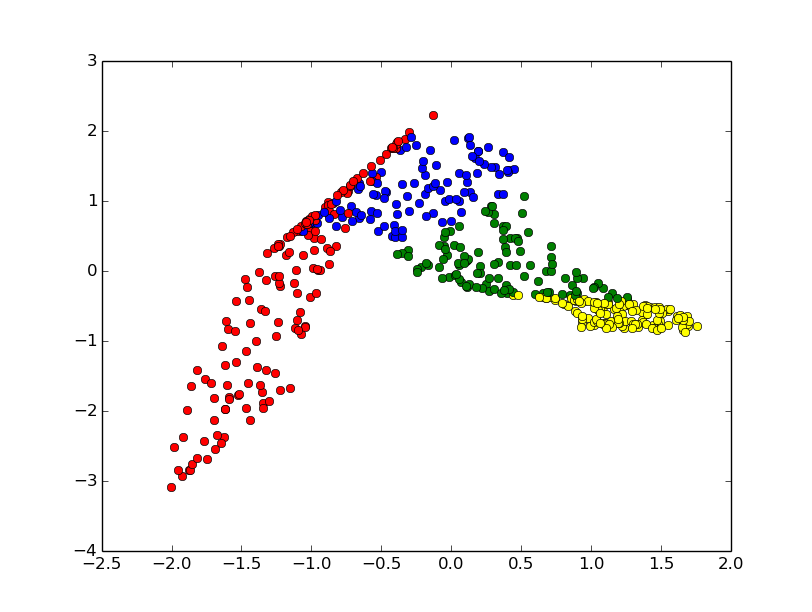
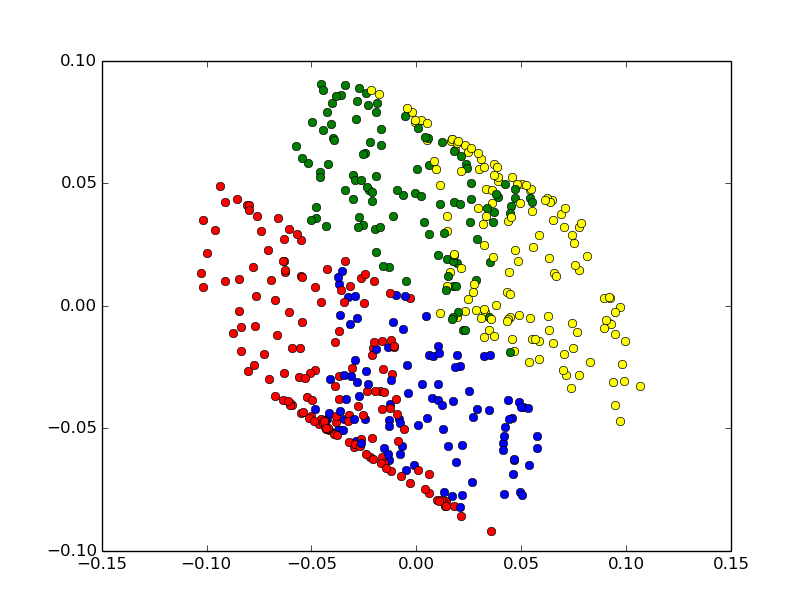
Mostly working LLE, unresolved issue of scale

diff --git a/homework2/3Ddata/threedata.py b/homework2/3Ddata/threedata.py
@@ -242,7 +242,7 @@ def LLE():
         Z = Z - Xi
         C = np.cov(Z.T)
         #Regularize covariance matrix to get full rank
-        eps = 1e-3*np.trace(C)
+        eps = 1e-2*np.trace(C) #/ (nearest_neighbors - 1)
         #C = C+eps*np.identity(number_points - 1)
         C = C + eps*np.identity(nearest_neighbors - 1)
         #C_inverse = np.linalg.inv(C) #Likely not strictly the most efficient but okay for the small size we have here
@@ -257,7 +257,10 @@ def LLE():
         #print(k_nns[1][1:])
         #print(w)
         weight_getter = 0
-        for j in k_nns[1][1:]:
+        #sorted_knns = np.sort(k_nns[1][1:])
+        sorted_knns = k_nns[1][1:]
+        #print(sorted_knns)
+        for j in sorted_knns:
             """
             if(j > i):
                 weights[i][j] = np.sum(C_inverse[j - 1]) / sum_c_inverse
@@ -274,7 +277,7 @@ def LLE():
     eig_pairs = sorteigens(eig_val, eig_vec)
     #print(eig_pairs)
     eigen_matrix = getreverseeigenmatrix(eig_pairs, number_points - 1)
-    eigen_matrix /= eig_pairs[number_points - 1][1][0] #This is a hack but the bottom eigenvector is supposed to be a matrix of all ones but instead it's some constant less than one, so I'm taking that constant and rescaling the other eigenvectors
+    #eigen_matrix /= eig_pairs[number_points - 1][1][0] #This is a hack but the bottom eigenvector is supposed to be a matrix of all ones but instead it's some constant less than one, so I'm taking that constant and rescaling the other eigenvectors
     #print(eigen_matrix)
     #print(len(eig_pairs))
     #print(eig_pairs[499][1])
